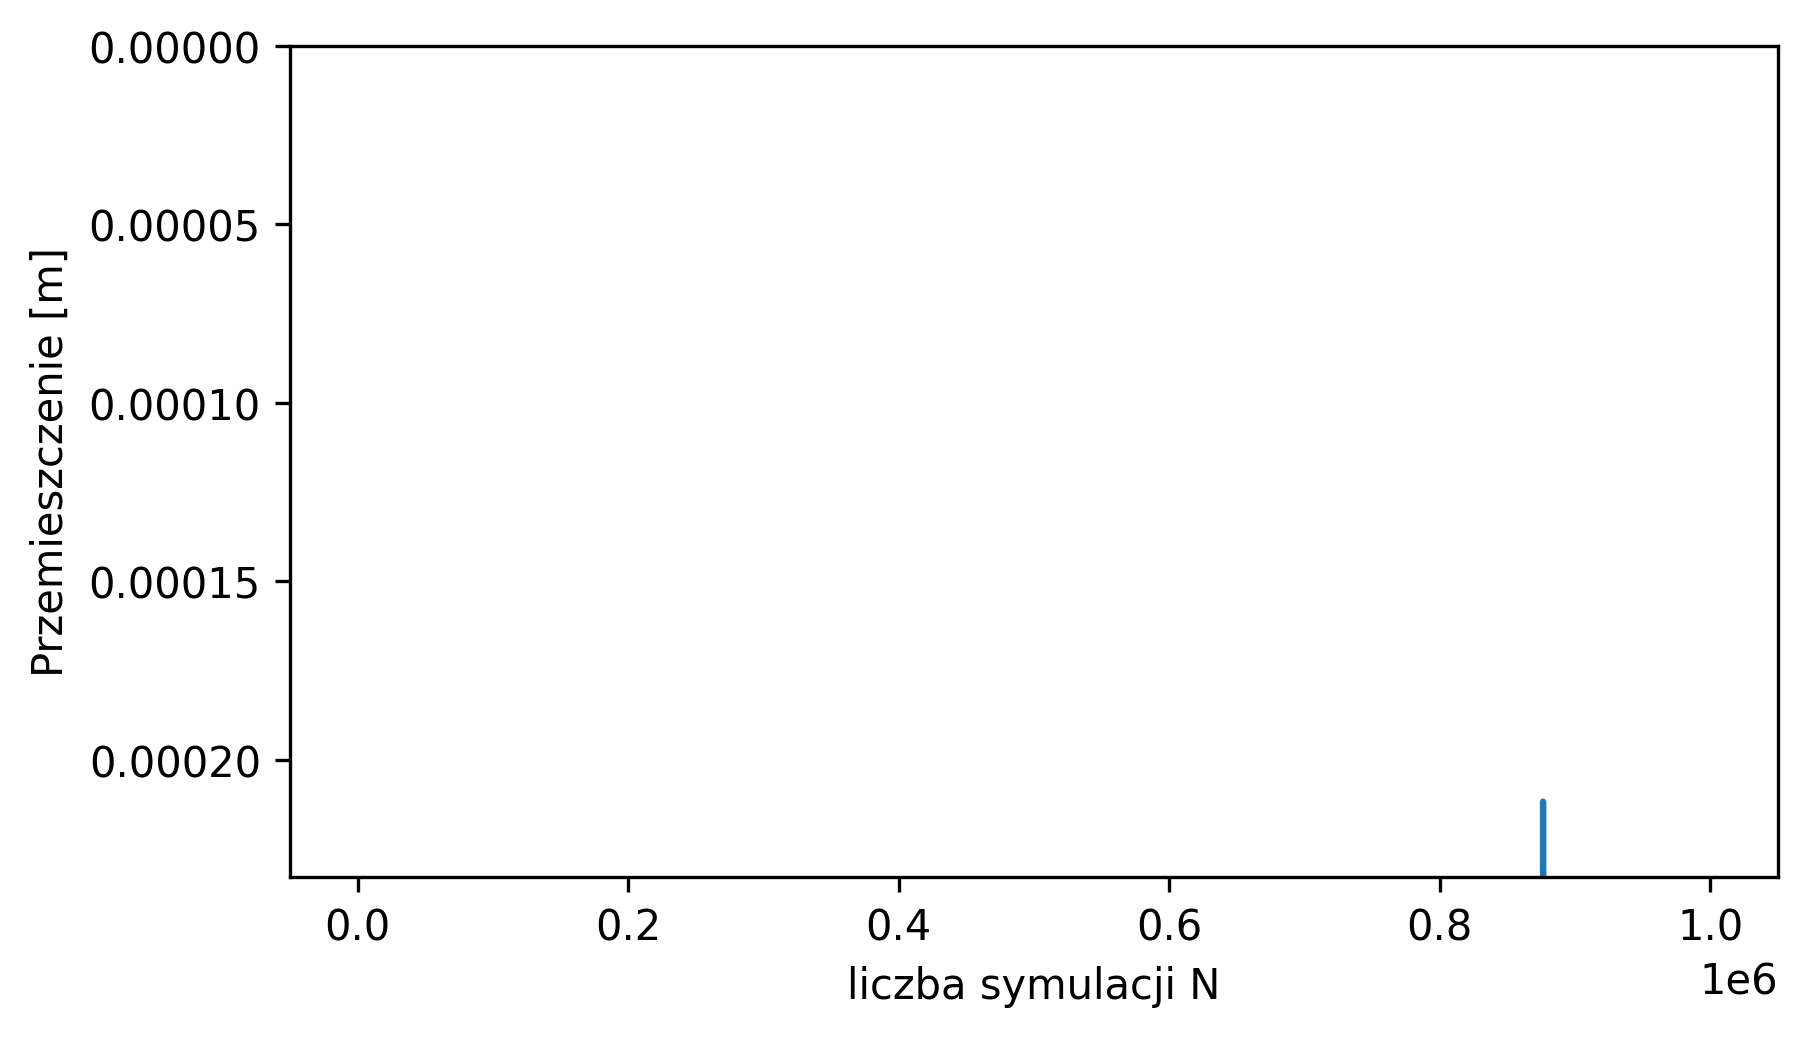
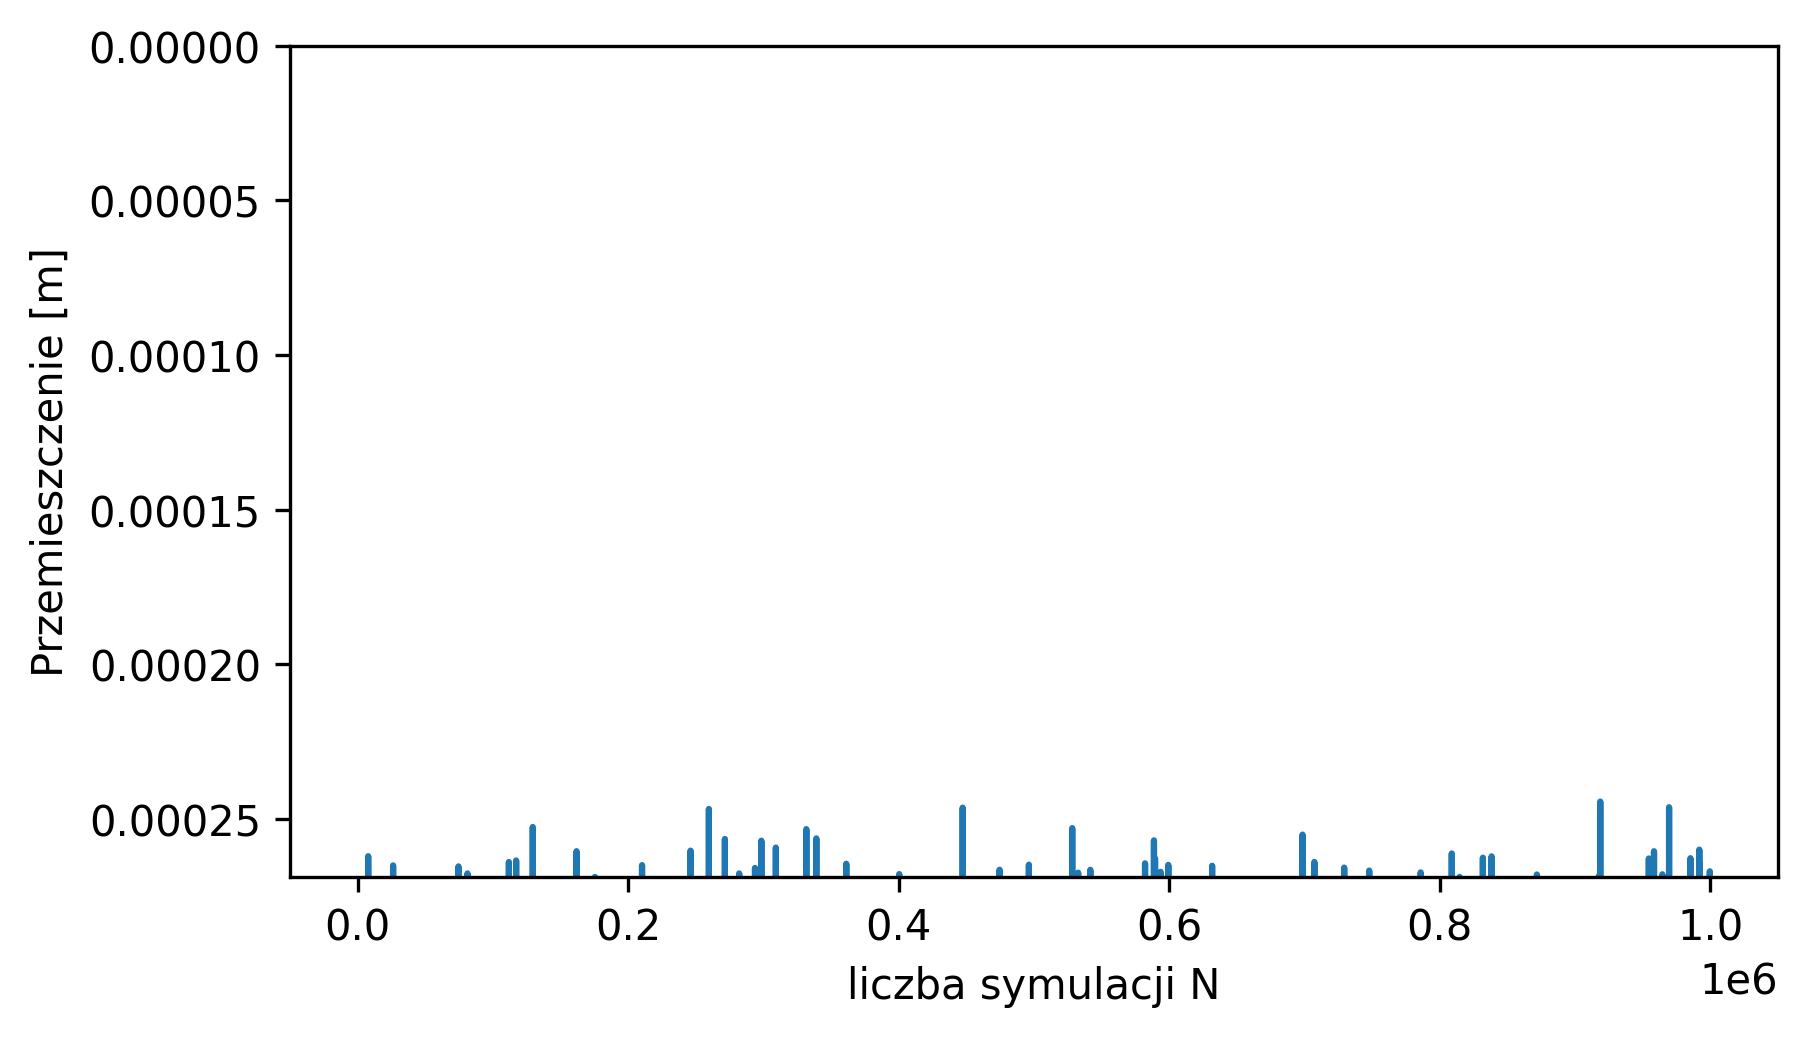
Update 2

diff --git a/osp/Structures/belka.py b/osp/Structures/belka.py
@@ -74,12 +74,10 @@ ops.probabilityTransformation('Nataf', '-print', 0)
 
 # region Obliczenia i wyniki
 nFail = 0
-nTrials = 100000
+nTrials = 1000000
 u_sims = np.zeros(nTrials)
 
 calculate(nTrials, 4, 2, u_sims)
 
 save_results(nFail, nTrials, u_sims, 'Belka')
 # endregion
-
-exit()

diff --git a/osp/Structures/pretowa.py b/osp/Structures/pretowa.py
@@ -73,7 +73,7 @@ ops.probabilityTransformation('Nataf', '-print', 0)
 
 # region Obliczenia i wyniki
 nFail = 0
-nTrials = 100000
+nTrials = 1000000
 u_sims = np.zeros(nTrials)
 
 calculate(nTrials, 4, 2, u_sims)

diff --git a/osp/Structures/rama.py b/osp/Structures/rama.py
@@ -72,7 +72,7 @@ ops.probabilityTransformation('Nataf', '-print', 0)
 
 # region Obliczenia i wyniki
 nFail = 0
-nTrials = 100000
+nTrials = 1000000
 u_sims = np.zeros(nTrials)
 
 calculate(nTrials, 2, 1, u_sims)
